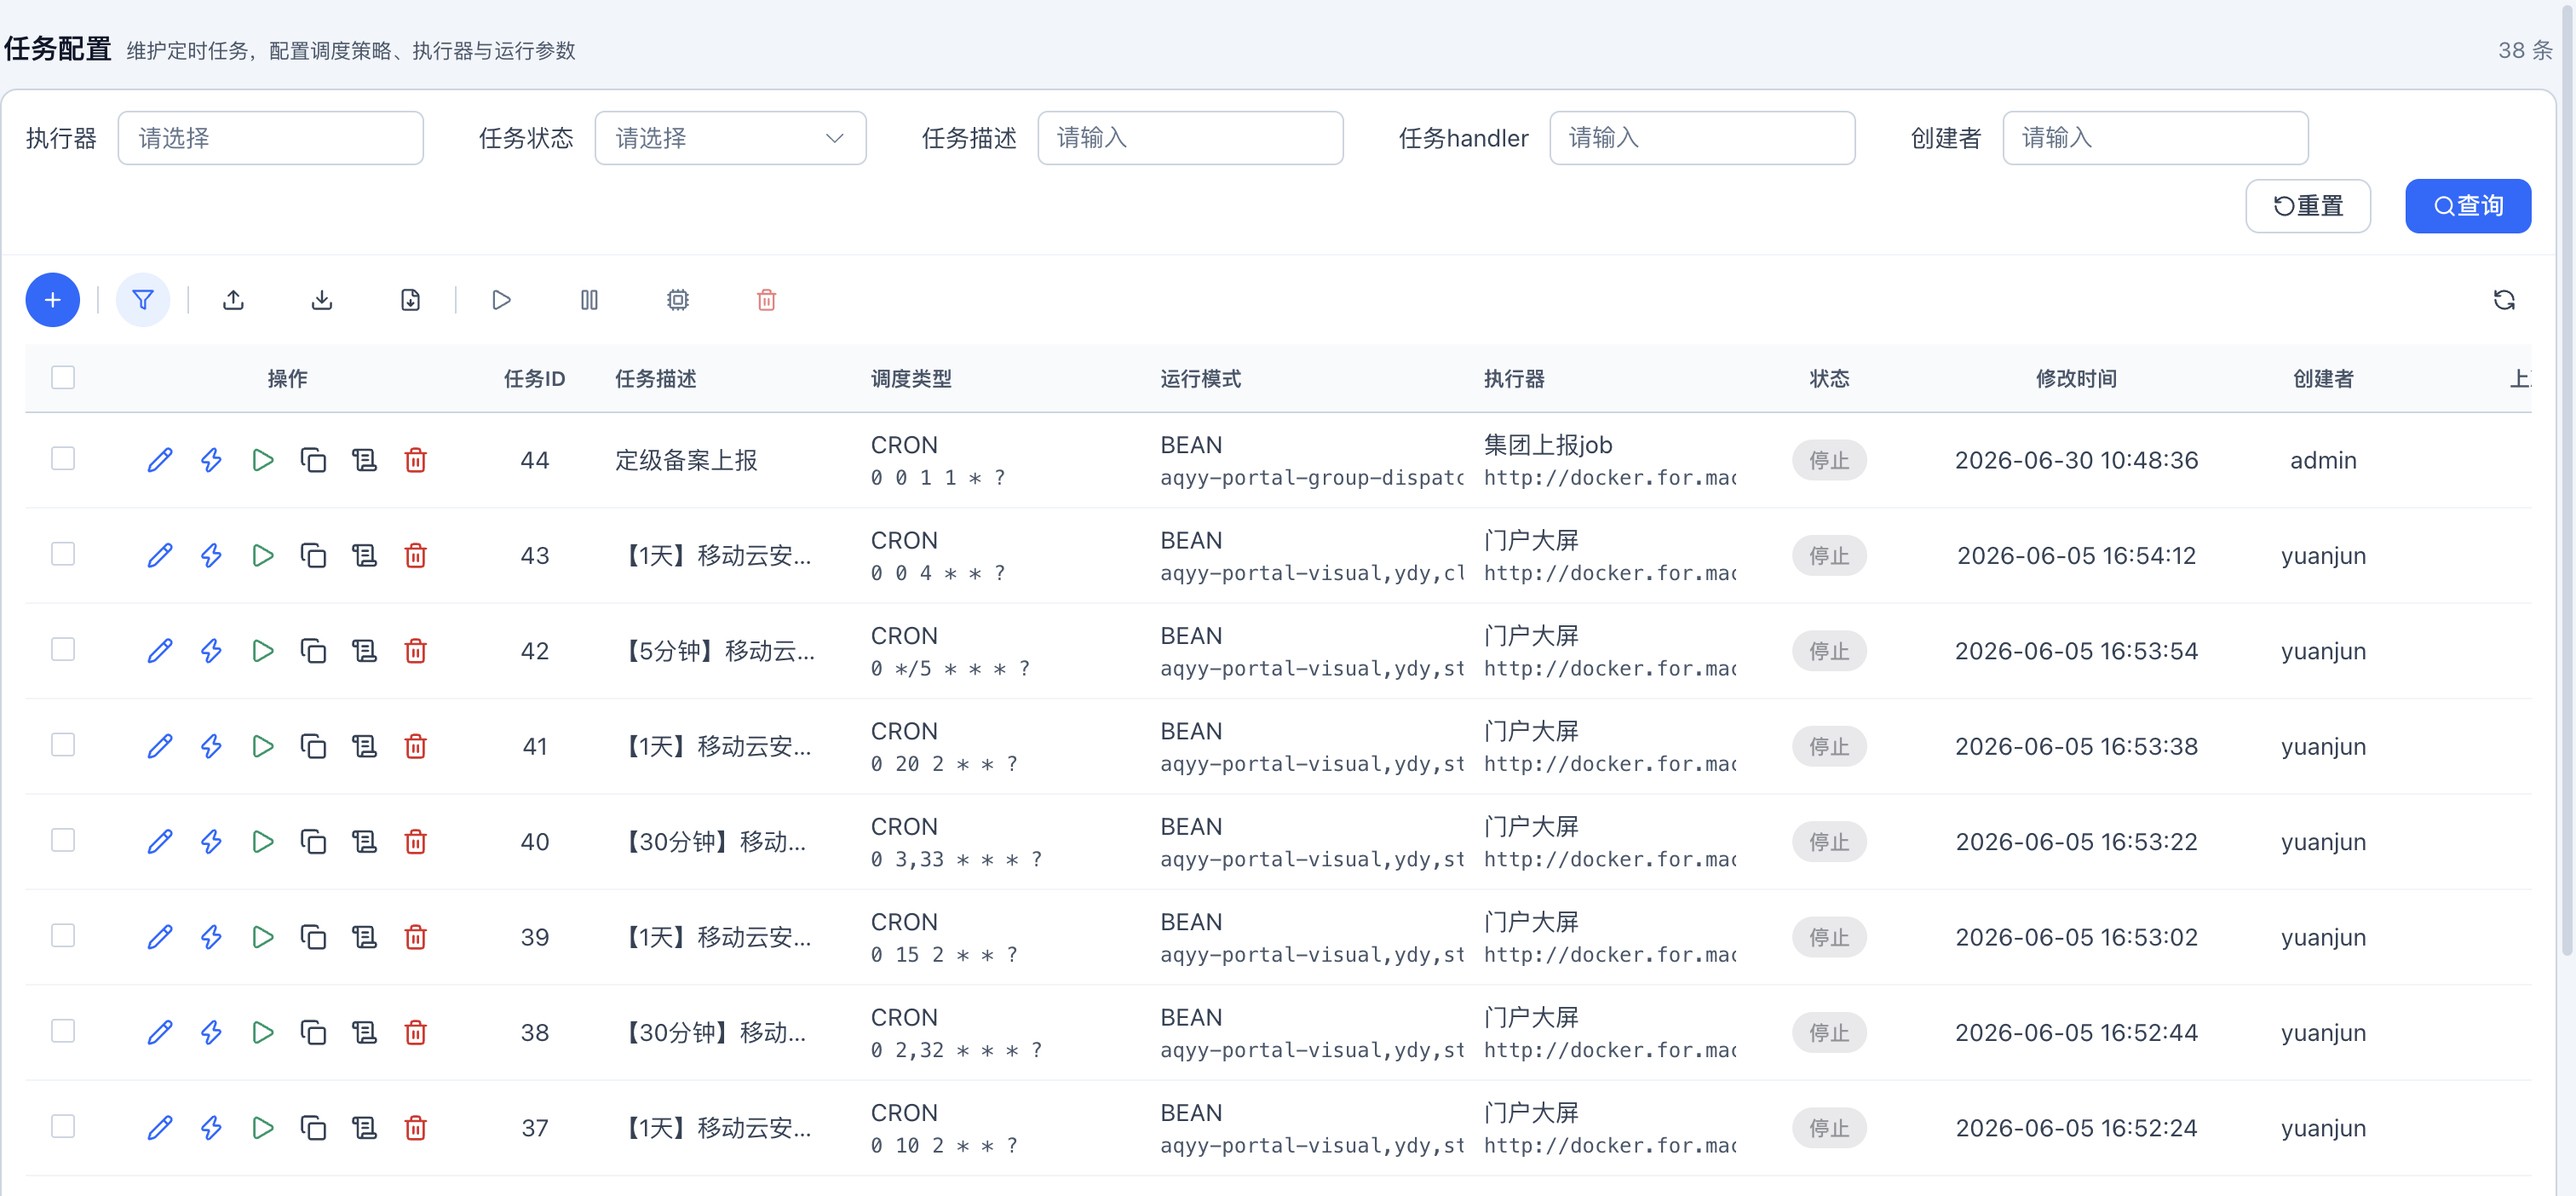
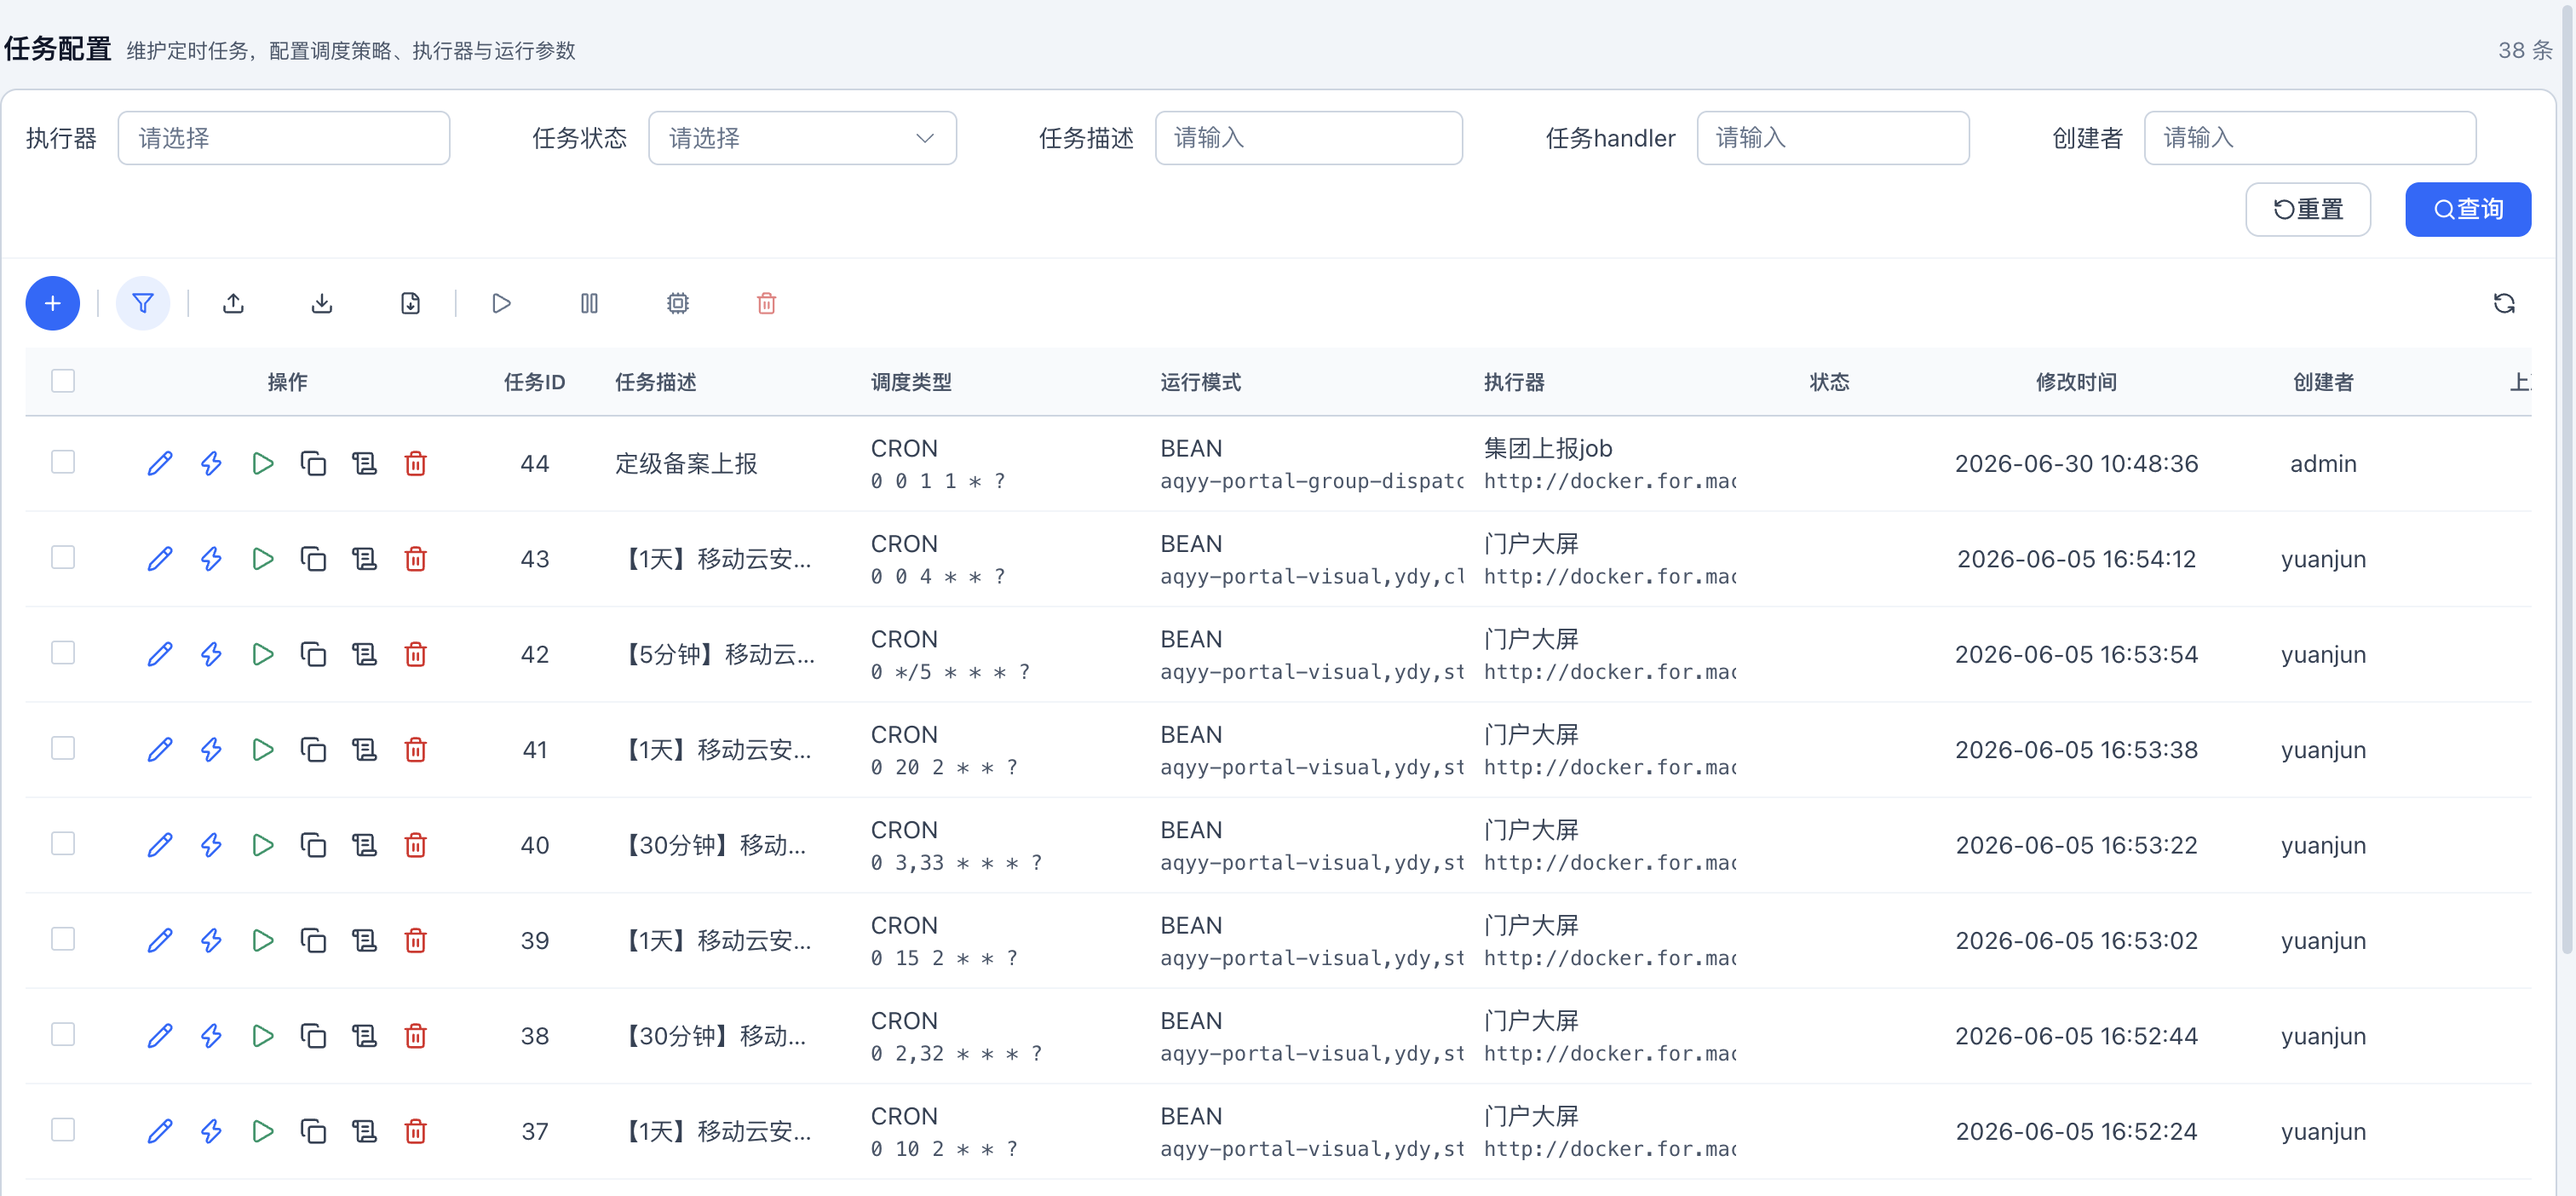
style: 查询区改为自适应网格，控件等宽单行排列，操作按钮右对齐

diff --git a/xxl-job-admin/src/main/resources/static/src/assets/css/admin.css b/xxl-job-admin/src/main/resources/static/src/assets/css/admin.css
@@ -59,11 +59,36 @@
 /* ---------- 查询区 ---------- */
 .admin-filter {
   display: flex;
-  flex-wrap: wrap;
-  align-items: center;
-  gap: 8px;
+  flex-direction: column;
+  align-items: stretch;
+  gap: 10px;
   padding: 12px 14px;
   border-bottom: 1px solid var(--el-border-color-lighter);
+}
+
+/* 查询项用网格均分，避免控件被挤成一列或换行错位 */
+.admin-filter .el-form {
+  display: grid;
+  grid-template-columns: repeat(auto-fit, minmax(260px, 1fr));
+  gap: 10px 16px;
+  width: 100%;
+}
+
+.admin-filter .el-form-item {
+  display: flex;
+  align-items: center;
+  margin: 0;
+}
+
+.admin-filter .el-form-item__content {
+  flex: 1;
+  min-width: 0;
+}
+
+.admin-filter .el-input,
+.admin-filter .el-select,
+.admin-filter .el-date-editor {
+  width: 100%;
 }
 
 .admin-filter .el-form-item {
@@ -86,16 +111,16 @@
    单类选择器会被后加载的组件样式覆盖，这里用父级限定提高优先级 */
 .admin-filter .el-input,
 .admin-filter .el-select {
-  width: 180px;
+  width: 100%;
 }
 
 .admin-filter .admin-filter__input--wide,
 .admin-filter .el-date-editor {
-  width: 260px;
+  width: 100%;
 }
 
 .admin-filter .admin-filter__select {
-  width: 160px;
+  width: 100%;
 }
 
 /* ---------- 工具条 ---------- */
